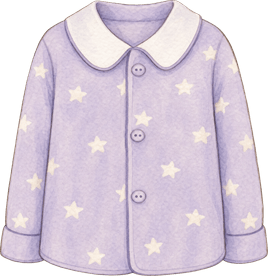
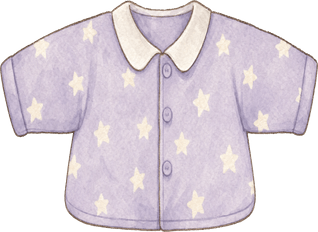
衣柜三轮反馈：服装贴合身体重生成+移除立绘名牌+贴合度自动验收。①量证用户截图：渲染与标定零偏差，根因是五件切件太窄瘦（55-68% 体宽在蓬毛身体上读作浮在肚子上的小兜兜）——五件全部按 1:1 画幅+「宽松宽扁、轮廓横宽、袖子摊到与肩同宽」提示词重生成（5×0.46），重切后目标宽 318-330=上胸围 342px 的 93-97%（拉伸 ≤20%），领口 435-445 卡颊毛下缘、下摆 670-678 仍停爪垫上方，睡衣生成为短袖版型可接受；②新增 miniapp/tools/verify-body-fit.mjs 自动验收：按真实图盒 206×330 3 倍渲染逐像素求差得服装掩码

diff --git a/miniapp/src/features/main/MiniappWardrobePanel.scss b/miniapp/src/features/main/MiniappWardrobePanel.scss
@@ -106,24 +106,6 @@
   font-size: var(--font-size-aux);
   white-space: nowrap;
 }
-/* 名牌压在舞台前沿（层级高于内景图，修复名牌被圆台遮挡） */
-.wardrobe-scene__name {
-  position: absolute;
-  left: 50%;
-  bottom: 0;
-  transform: translateX(-50%);
-  z-index: 2;
-  padding: 6rpx 30rpx;
-  border-radius: 999rpx;
-  background: linear-gradient(135deg, #f7b35c, #e88f3c);
-  color: #fff;
-  font-size: var(--font-size-aux);
-  font-weight: var(--font-weight-bold);
-  box-shadow: 0 6rpx 14rpx rgba(232, 143, 60, .32);
-  white-space: nowrap;
-  animation: wardrobe-name-pop .4s cubic-bezier(.34, 1.56, .64, 1) both;
-}
-@keyframes wardrobe-name-pop { from { opacity: 0; transform: translateX(-50%) scale(.8); } to { opacity: 1; transform: translateX(-50%) scale(1); } }
 /* 立绘旁的两颗闪烁星星 */
 .wardrobe-scene__spark {
   position: absolute;
@@ -412,7 +394,6 @@
   .wardrobe-scene::before { animation: none; opacity: .7; }
   .wardrobe-scene__portrait .outfit-portrait { animation: none; }
   .wardrobe-scene__spark { animation: none; opacity: .6; }
-  .wardrobe-scene__name { animation: none; }
   .wardrobe-match { animation: none; }
   .wardrobe-panel__backdrop { animation: wardrobe-fade .32s ease-out both; }
 }

diff --git a/miniapp/src/domain/wardrobeModel.ts b/miniapp/src/domain/wardrobeModel.ts
@@ -76,11 +76,11 @@ export const EMPTY_OUTFIT: OutfitPieces = { body: 'default', hat: null, scarf: n
 
 /** 主体服装切件的叠加定位（436×700 原装画布百分比），由 miniapp/tools/cut-worn-garments.mjs 标定生成，改素材必须重跑 */
 export const BODY_LAYER_STYLE: Partial<Record<SuitKey, { left: string; top: string; width: string }>> = {
-  hoodie: { left: '19.95%', top: '56.00%', width: '60.09%' },
-  overalls: { left: '22.48%', top: '57.43%', width: '55.05%' },
-  dress: { left: '19.27%', top: '56.29%', width: '61.47%' },
-  raincoat: { left: '16.05%', top: '56.29%', width: '67.89%' },
-  pajamas: { left: '19.27%', top: '56.57%', width: '61.47%' }
+  hoodie: { left: '13.30%', top: '62.86%', width: '73.39%' },
+  overalls: { left: '15.60%', top: '63.57%', width: '68.81%' },
+  dress: { left: '12.84%', top: '62.14%', width: '74.54%' },
+  raincoat: { left: '12.16%', top: '62.86%', width: '75.69%' },
+  pajamas: { left: '13.53%', top: '63.14%', width: '72.94%' }
 }
 
 /** 某主体服装切件在原装立绘上的叠加定位；原装无切件返回 undefined */

diff --git a/miniapp/src/domain/wardrobeModel.test.ts b/miniapp/src/domain/wardrobeModel.test.ts
@@ -98,12 +98,13 @@ describe('wardrobe model', () => {
     for (const key of ['hat', 'scarf', 'bag'] as const) {
       expect(resolveOverlayStyle(key)).toBe(OUTFIT_LAYER_STYLE[key])
     }
-    // 每套主体服装都有切件定位，且切件顶都在下巴（≈54.5%）之下——任何服装都不挡头
+    // 每套主体服装都有切件定位：领口都在颊毛下缘（≈61%）之下不挡头，宽度贴体宽（60-80% 画布宽）
     for (const body of ['hoodie', 'overalls', 'dress', 'raincoat', 'pajamas'] as const) {
       const style = resolveBodyLayerStyle(body)
       expect(style).toBeDefined()
-      expect(Number.parseFloat(style!.top)).toBeGreaterThan(54)
-      expect(Number.parseFloat(style!.width)).toBeLessThan(70)
+      expect(Number.parseFloat(style!.top)).toBeGreaterThan(60)
+      expect(Number.parseFloat(style!.width)).toBeGreaterThan(60)
+      expect(Number.parseFloat(style!.width)).toBeLessThan(80)
     }
     expect(resolveBodyLayerStyle('default')).toBeUndefined()
   })

diff --git a/miniapp/src/features/main/MiniappWardrobePanel.tsx b/miniapp/src/features/main/MiniappWardrobePanel.tsx
@@ -254,9 +254,6 @@ export function MiniappWardrobePanel({ roomId, gmTest = false, onClose, onChange
         {!assetReady && (
           <Text className="wardrobe-scene__pending">画稿云端准备中…</Text>
         )}
-        <View className="wardrobe-scene__name">
-          <Text>{view ? (view.items.find((item) => item.key === pieces.body)?.name ?? '原装小多利') : '…'}</Text>
-        </View>
         <View className="wardrobe-scene__spark wardrobe-scene__spark--a" />
         <View className="wardrobe-scene__spark wardrobe-scene__spark--b" />
       </View>
